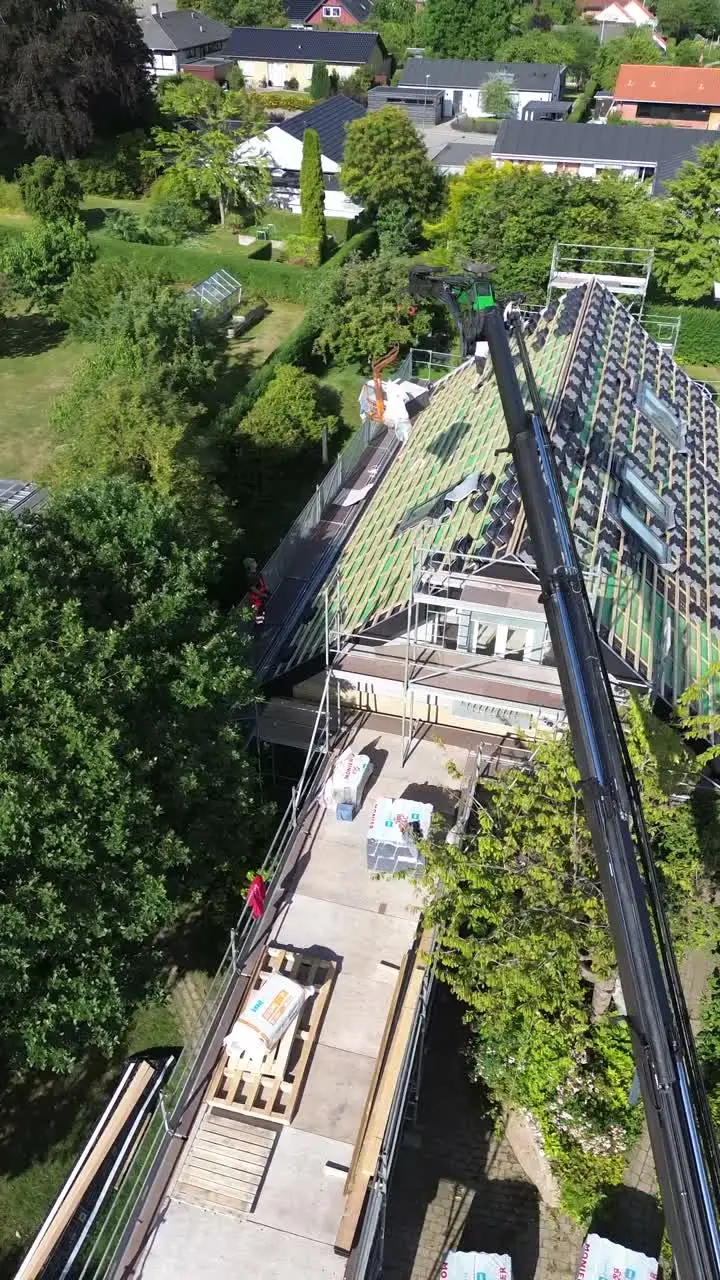
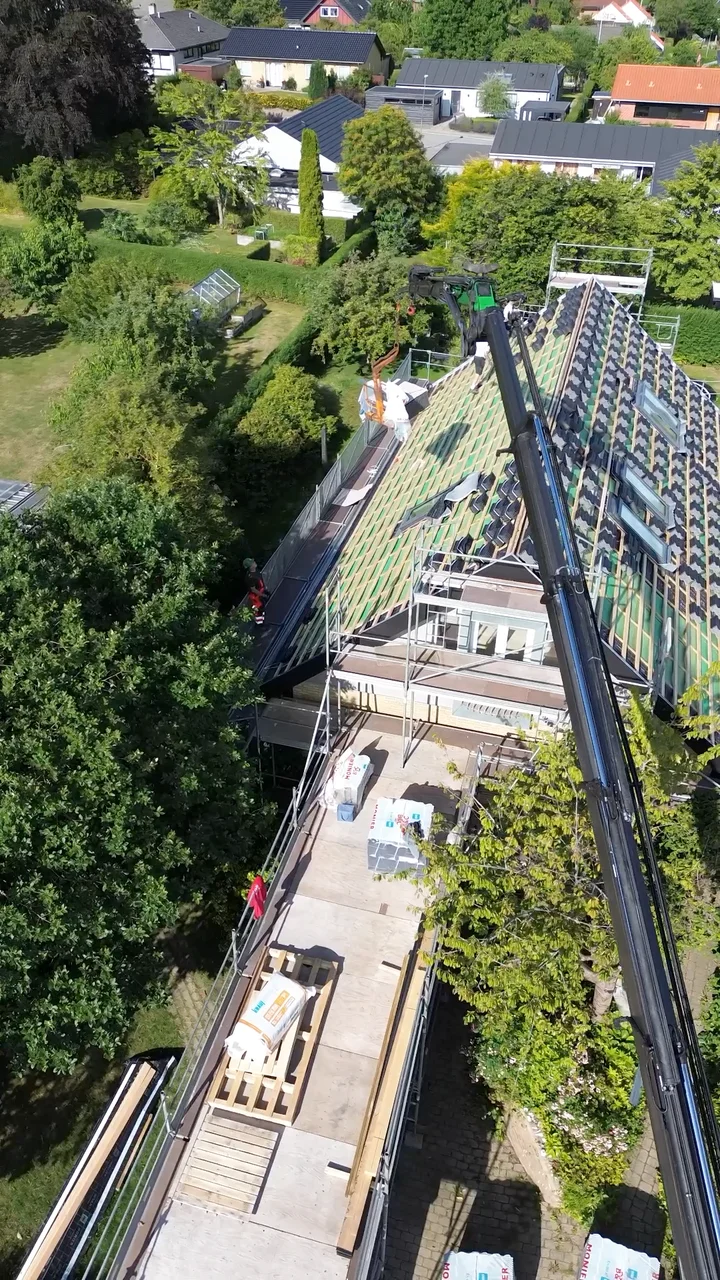
perf: hero-stillbilledet gennem next/image, og CSS'en ind i head
Mobil, samme maskine, median af tre: 86 → 93 i performance. LCP falder fra
4.292 til 3.236 ms. Tre ting.

Stillbilledet var et poster-attribut — én fil i én størrelse til alle. 190 KiB
webp, hentet af både en telefon på 360 px og en skrivebordsskærm, der viser
klippet i 303 px bredde. Nu går det gennem next/image, som skalerer per skærm.

Formatet er skiftet til AVIF. Motivet er en droneoptagelse fuld af løv og
tagtekstur, og den slags er dyr i webp: at skrue kvaliteten fra 68 ned til 44
sparede kun 21 % og gjorde billedet grimt. Komprimering var altså en
blindgyde. AVIF ved samme oplevede kvalitet er 27 % mindre — og skarpere
oveni, fordi masteren nu hentes fra 1080p-originalen med AVFoundation i stedet
for fra det allerede komprimerede klip. Poster-filerne er derfor ikke længere
det, browseren henter; de er mastere, og kvaliteten er sat op til 85.

sizes er 66vw på mobil, ikke 100vw, og grænsen er sat efter klippet frem for
efter bytes. Videoen er 720 px bred og strækkes 1,6 gange på en telefon med
DPR 3. Et stillbillede i fuld oversampling ville stå skarpere end det, det er
stedfortræder for — skarpt i ét sekund, blødt når klippet overtager. Det ville
læses som en fejl. 66vw rammer 640 px, altså samme blødhed som klippet.

CSS'en er inlinet. De 9,7 KiB var render-blokerende: browseren skulle hente
HTML, finde link-tagget og hente stilarket, før den kunne tegne. Lighthouse
satte det til 150 ms af både FCP og LCP. Prisen er, at stilarket ikke kan
[…]

diff --git a/src/components/home/Hero.tsx b/src/components/home/Hero.tsx
@@ -1,5 +1,6 @@
 "use client";
 
+import Image from "next/image";
 import { useEffect, useRef, useState } from "react";
 import { Button, ArrowRight } from "@/components/shared/Button";
 import { Hjoerner } from "@/components/shared/Frame";
@@ -80,17 +81,6 @@ export function Hero({ slides }: { slides: HeroSlide[] }) {
 
   return (
     <section className="relative min-h-[100svh] overflow-hidden">
-      {/* Posterbilledet er det første, man ser — på mobil fylder det hele
-          skærmen. Uden det her opdager browseren det først inde i <video>
-          og henter det med samme prioritet som JavaScript-chunksene.
-          React løfter selv link-tagget op i <head>. */}
-      <link
-        rel="preload"
-        as="image"
-        href={slides[0].poster}
-        fetchPriority="high"
-      />
-
       {/* På desktop er heroen et grid: tekst til venstre, klippet indrammet
           til højre. På mobil falder klippet ud af flowet og fylder skærmen,
           fordi viewporten dér selv er 9:16 — samme proportioner som klippet.
@@ -110,6 +100,49 @@ export function Hero({ slides }: { slides: HeroSlide[] }) {
           {/* Klippene ligger i en indre ramme med overflow-hidden. Hjørnerne
               skal uden for den — ellers klipper netop den ramme dem væk. */}
           <div className="absolute inset-0 overflow-hidden lg:border lg:border-grey-800">
+            {/* Stillbillederne ligger BAG klippene og bærer det første
+                indtryk, indtil videoen har billeder at vise.
+                
+                De var før et poster-attribut, altså én fil i én størrelse til
+                alle: 190 KiB webp, hentet af både en telefon på 360 px og en
+                skrivebordsskærm, der kun viser klippet i 303 px bredde. Som
+                next/image får hver skærm sin bredde, og AVIF tager resten —
+                se noten om formatet i next.config.ts.
+                
+                priority kun på det første: det er det eneste, der er på
+                skærmen ved indlæsning, og det er også det eneste, der findes
+                på mobil.
+                
+                De 66vw på mobil er med vilje mindre end de 100vw, billedet
+                fylder — og grænsen er sat efter klippet, ikke efter bytes.
+                Videoen er 720 px bred. På en telefon med DPR 3 strækkes den
+                1,6 gange for at fylde skærmen, og et stillbillede i fuld
+                oversampling ville altså stå SKARPERE end det, det er
+                stedfortræder for: skarpt i ét sekund, blødt når klippet
+                overtager. Det ville læses som en fejl.
+
+                66vw lander samme telefon på 640 px, altså 1,8 gange — samme
+                blødhed som klippet. At filen samtidig bliver mindre end
+                halvdelen (190 → 42-92 KiB) er en gevinst oveni, ikke grunden.
+                Uden grænsen ville den telefon bede om 1200 px og få 224 KiB —
+                mere end i dag, for en skarphed klippet ikke indfrier. */}
+            {visible.map((slide, i) => (
+              <Image
+                key={slide.poster}
+                src={slide.poster}
+                alt=""
+                aria-hidden
+                fill
+                priority={i === 0}
+                quality={52}
+                sizes="(min-width: 1024px) 26vw, 66vw"
+                className={cn(
+                  "object-cover transition-opacity duration-1000 ease-[cubic-bezier(0.16,1,0.3,1)]",
+                  i === index ? "opacity-100" : "opacity-0",
+                )}
+              />
+            ))}
+
             {visible.map((slide, i) => (
               <video
                 key={slide.src}
@@ -128,7 +161,6 @@ export function Hero({ slides }: { slides: HeroSlide[] }) {
                 // helt, flytter LCP sig ikke længere. Klippet er ude af den
                 // kritiske vej, ikke bare skubbet.
                 preload="none"
-                poster={slide.poster}
                 muted
                 playsInline
                 loop

diff --git a/next.config.ts b/next.config.ts
@@ -14,6 +14,31 @@ const nextConfig: NextConfig = {
     // Markus har sat (se src/sanity/billede.ts). next/image sørger derefter
     // for at levere den rigtige BREDDE til den enkelte skærm.
     remotePatterns: [{ protocol: "https", hostname: "cdn.sanity.io" }],
+
+    // AVIF først. Hero-posteren er en droneoptagelse fuld af løv og
+    // tagtekstur — den slags højfrekvente motiver er dyre i webp: at skrue
+    // kvaliteten fra 68 ned til 44 sparede kun 21 %, og billedet blev grimt.
+    // AVIF ved samme oplevede kvalitet er 27 % mindre. Browseren vælger selv
+    // via Accept-headeren, så den, der ikke kan AVIF, får webp.
+    formats: ["image/avif", "image/webp"],
+
+    // 52 til hero-posteren, 75 til alt andet. Next 16 kræver at hver værdi
+    // står her — ellers kan enhver bede optimeringstjenesten om vilkårlige
+    // kvaliteter og bruge vores kvote.
+    qualities: [52, 75],
+  },
+
+  experimental: {
+    // CSS'en lægges i <head> som <style> frem for et <link>. Sitets
+    // stilark er 9,7 KiB — Tailwind udsender kun det, der bruges — og det
+    // var render-blokerende: browseren skulle hente HTML, finde link-tagget
+    // og hente stilarket, før den kunne tegne noget. Målt af Lighthouse til
+    // 150 ms af både FCP og LCP på mobil.
+    //
+    // Prisen er at stilarket ikke kan caches for sig: en gengangere henter
+    // de 9,7 KiB igen. For et markedsføringssite, hvor de fleste besøg er
+    // første besøg, er det den rigtige handel.
+    inlineCss: true,
   },
 
   async redirects() {
